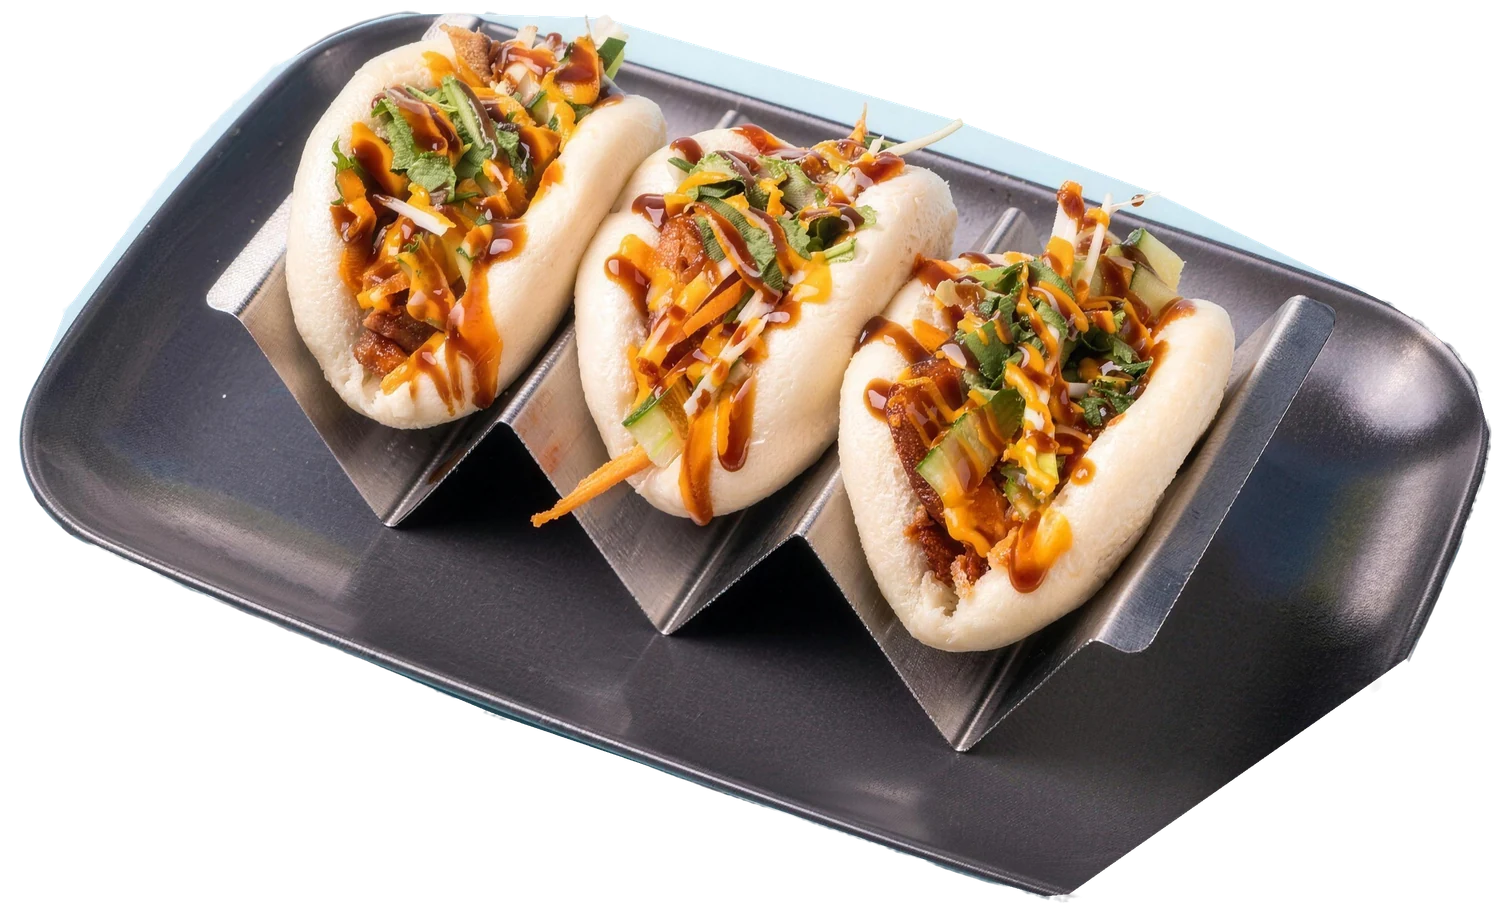
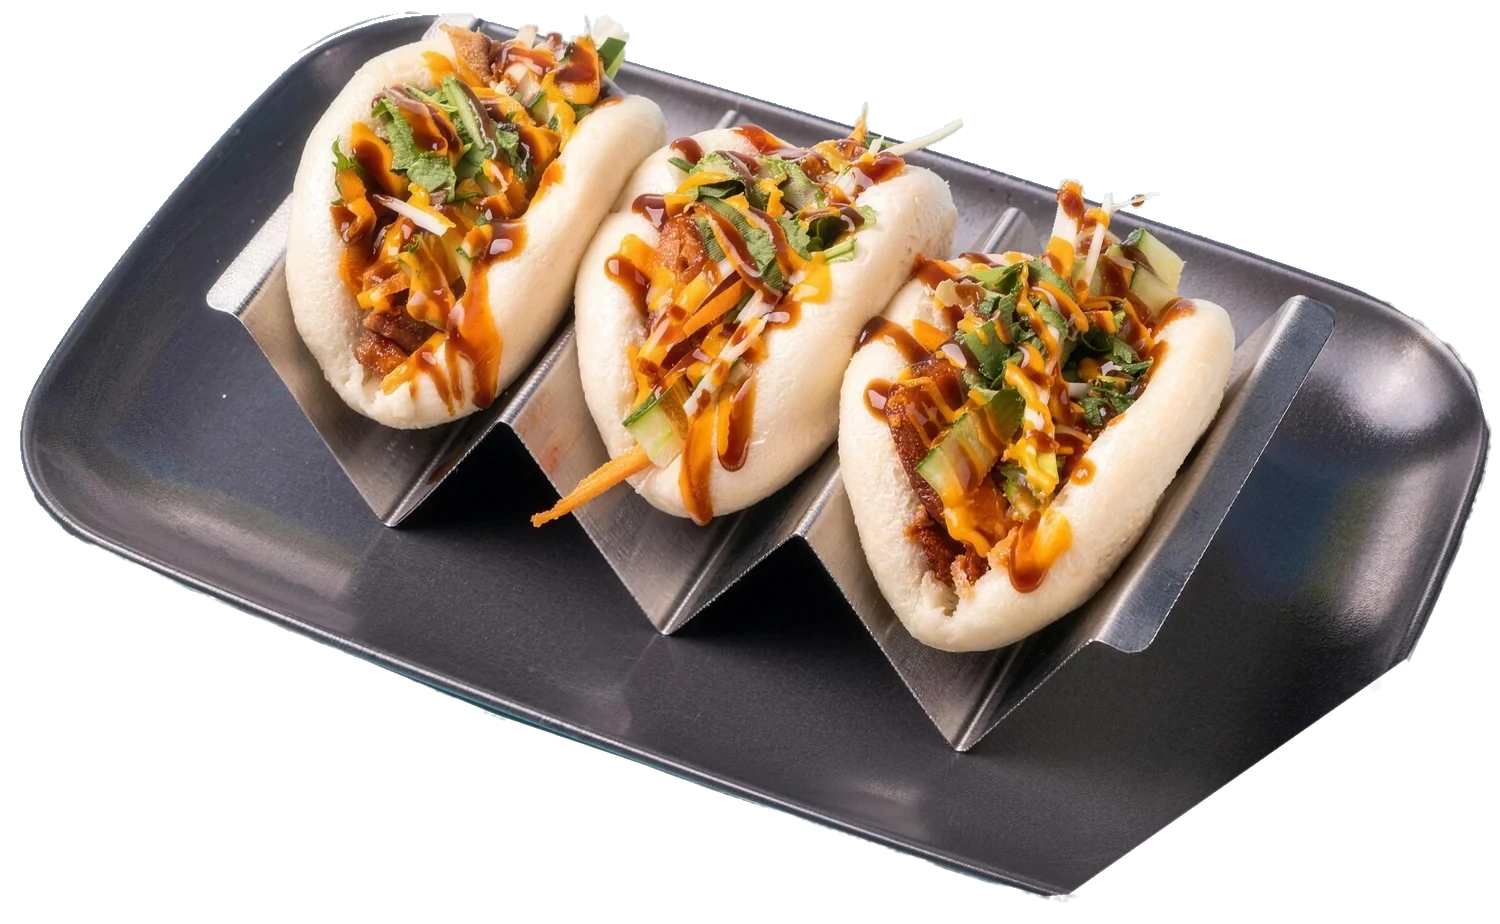
Deploy Bao Bite prototype (noindex preview)

diff --git a/css/site.css b/css/site.css
@@ -42,6 +42,7 @@ ol, ul { list-style: none; }
 button { font: inherit; color: inherit; background: none; border: 0; padding: 0; cursor: pointer; border-radius: 0; }
 a, button { touch-action: manipulation; -webkit-tap-highlight-color: rgba(239, 64, 4, .25); }
 :focus-visible { outline: 3px solid currentColor; outline-offset: 3px; }
+h2[tabindex="-1"]:focus, h1[tabindex="-1"]:focus { outline: none; } /* headings focused by a jump, for screen readers: no ring */
 sup { font: 700 .55em/0 var(--text); vertical-align: .9em; margin-left: .12em; letter-spacing: 0; font-variant-numeric: tabular-nums; }
 
 html[lang="en"] [lang="is"], html[lang="is"] [lang="en"] { display: none !important; }
@@ -337,10 +338,10 @@ html.has-stub .foot { padding-bottom: calc(110px + env(safe-area-inset-bottom));
 .trow:last-child { border-bottom: 0; padding-bottom: 0; }
 .trow__q { grid-row: 1 / 3; font: 800 34px/.9 var(--display); font-variant-numeric: tabular-nums; }
 .trow__c { grid-column: 2; font: 800 15px/1 var(--display); letter-spacing: .06em; color: var(--chili); }
-.trow__n { grid-column: 2; font: 800 26px/1 var(--display); text-transform: uppercase; overflow-wrap: anywhere; }
+.trow__n { grid-column: 2 / -1; font: 800 26px/1 var(--display); text-transform: uppercase; overflow-wrap: anywhere; }
 .trow__n [lang] { display: inline !important; }
 .trow__n [lang="en"] { display: block !important; margin-top: 4px; font: 500 14px/1.3 var(--mono); text-transform: none; }
-.trow__p { grid-column: 3; grid-row: 1 / 3; font-variant-numeric: tabular-nums; white-space: nowrap; }
+.trow__p { grid-column: 3; grid-row: 1; font-variant-numeric: tabular-nums; white-space: nowrap; }
 .trow__x { grid-column: 2 / -1; justify-self: start; min-height: 44px; min-width: 44px; margin: -10px 0 -8px; font: 600 12px/1 var(--mono); text-decoration: underline; color: var(--chili); }
 .trow.is-new { animation: print .36s steps(5, end) both; }
 @keyframes print { from { clip-path: inset(0 100% 0 0); } to { clip-path: inset(0 0 0 0); } }

diff --git a/js/site.js b/js/site.js
@@ -343,7 +343,8 @@
     if (!drawer.hidden) { root.classList.remove('drawer-open'); drawer.hidden = true; burger.setAttribute('aria-expanded', 'false'); }
     $$('[data-open-ticket]').forEach((b) => b.setAttribute('aria-expanded', 'true'));
     syncInert();
-    $('[data-close-ticket]', ticket).focus({ preventScroll: true });
+    // a keyboard opener lands on Close; a finger or mouse lands quietly on the heading (no ring), Tab still starts there
+    (openedByKey ? $('[data-close-ticket]', ticket) : $('#ticket-h')).focus({ preventScroll: true });
   }
   function closeTicket(restore = true) {
     ticket.dataset.state = 'closed';
@@ -355,7 +356,8 @@
     syncInert();
     if (restore) visibleFocus(opener);
   }
-  $$('[data-open-ticket]').forEach((b) => b.addEventListener('click', () => openTicket(b)));
+  let openedByKey = false;
+  $$('[data-open-ticket]').forEach((b) => b.addEventListener('click', (e) => { openedByKey = e.detail === 0; openTicket(b); }));
   $('[data-close-ticket]', ticket).addEventListener('click', () => closeTicket(true));
   ticket.addEventListener('click', (e) => { if (ticketOpen() && e.target === ticket) closeTicket(true); });
   document.addEventListener('keydown', (e) => {
